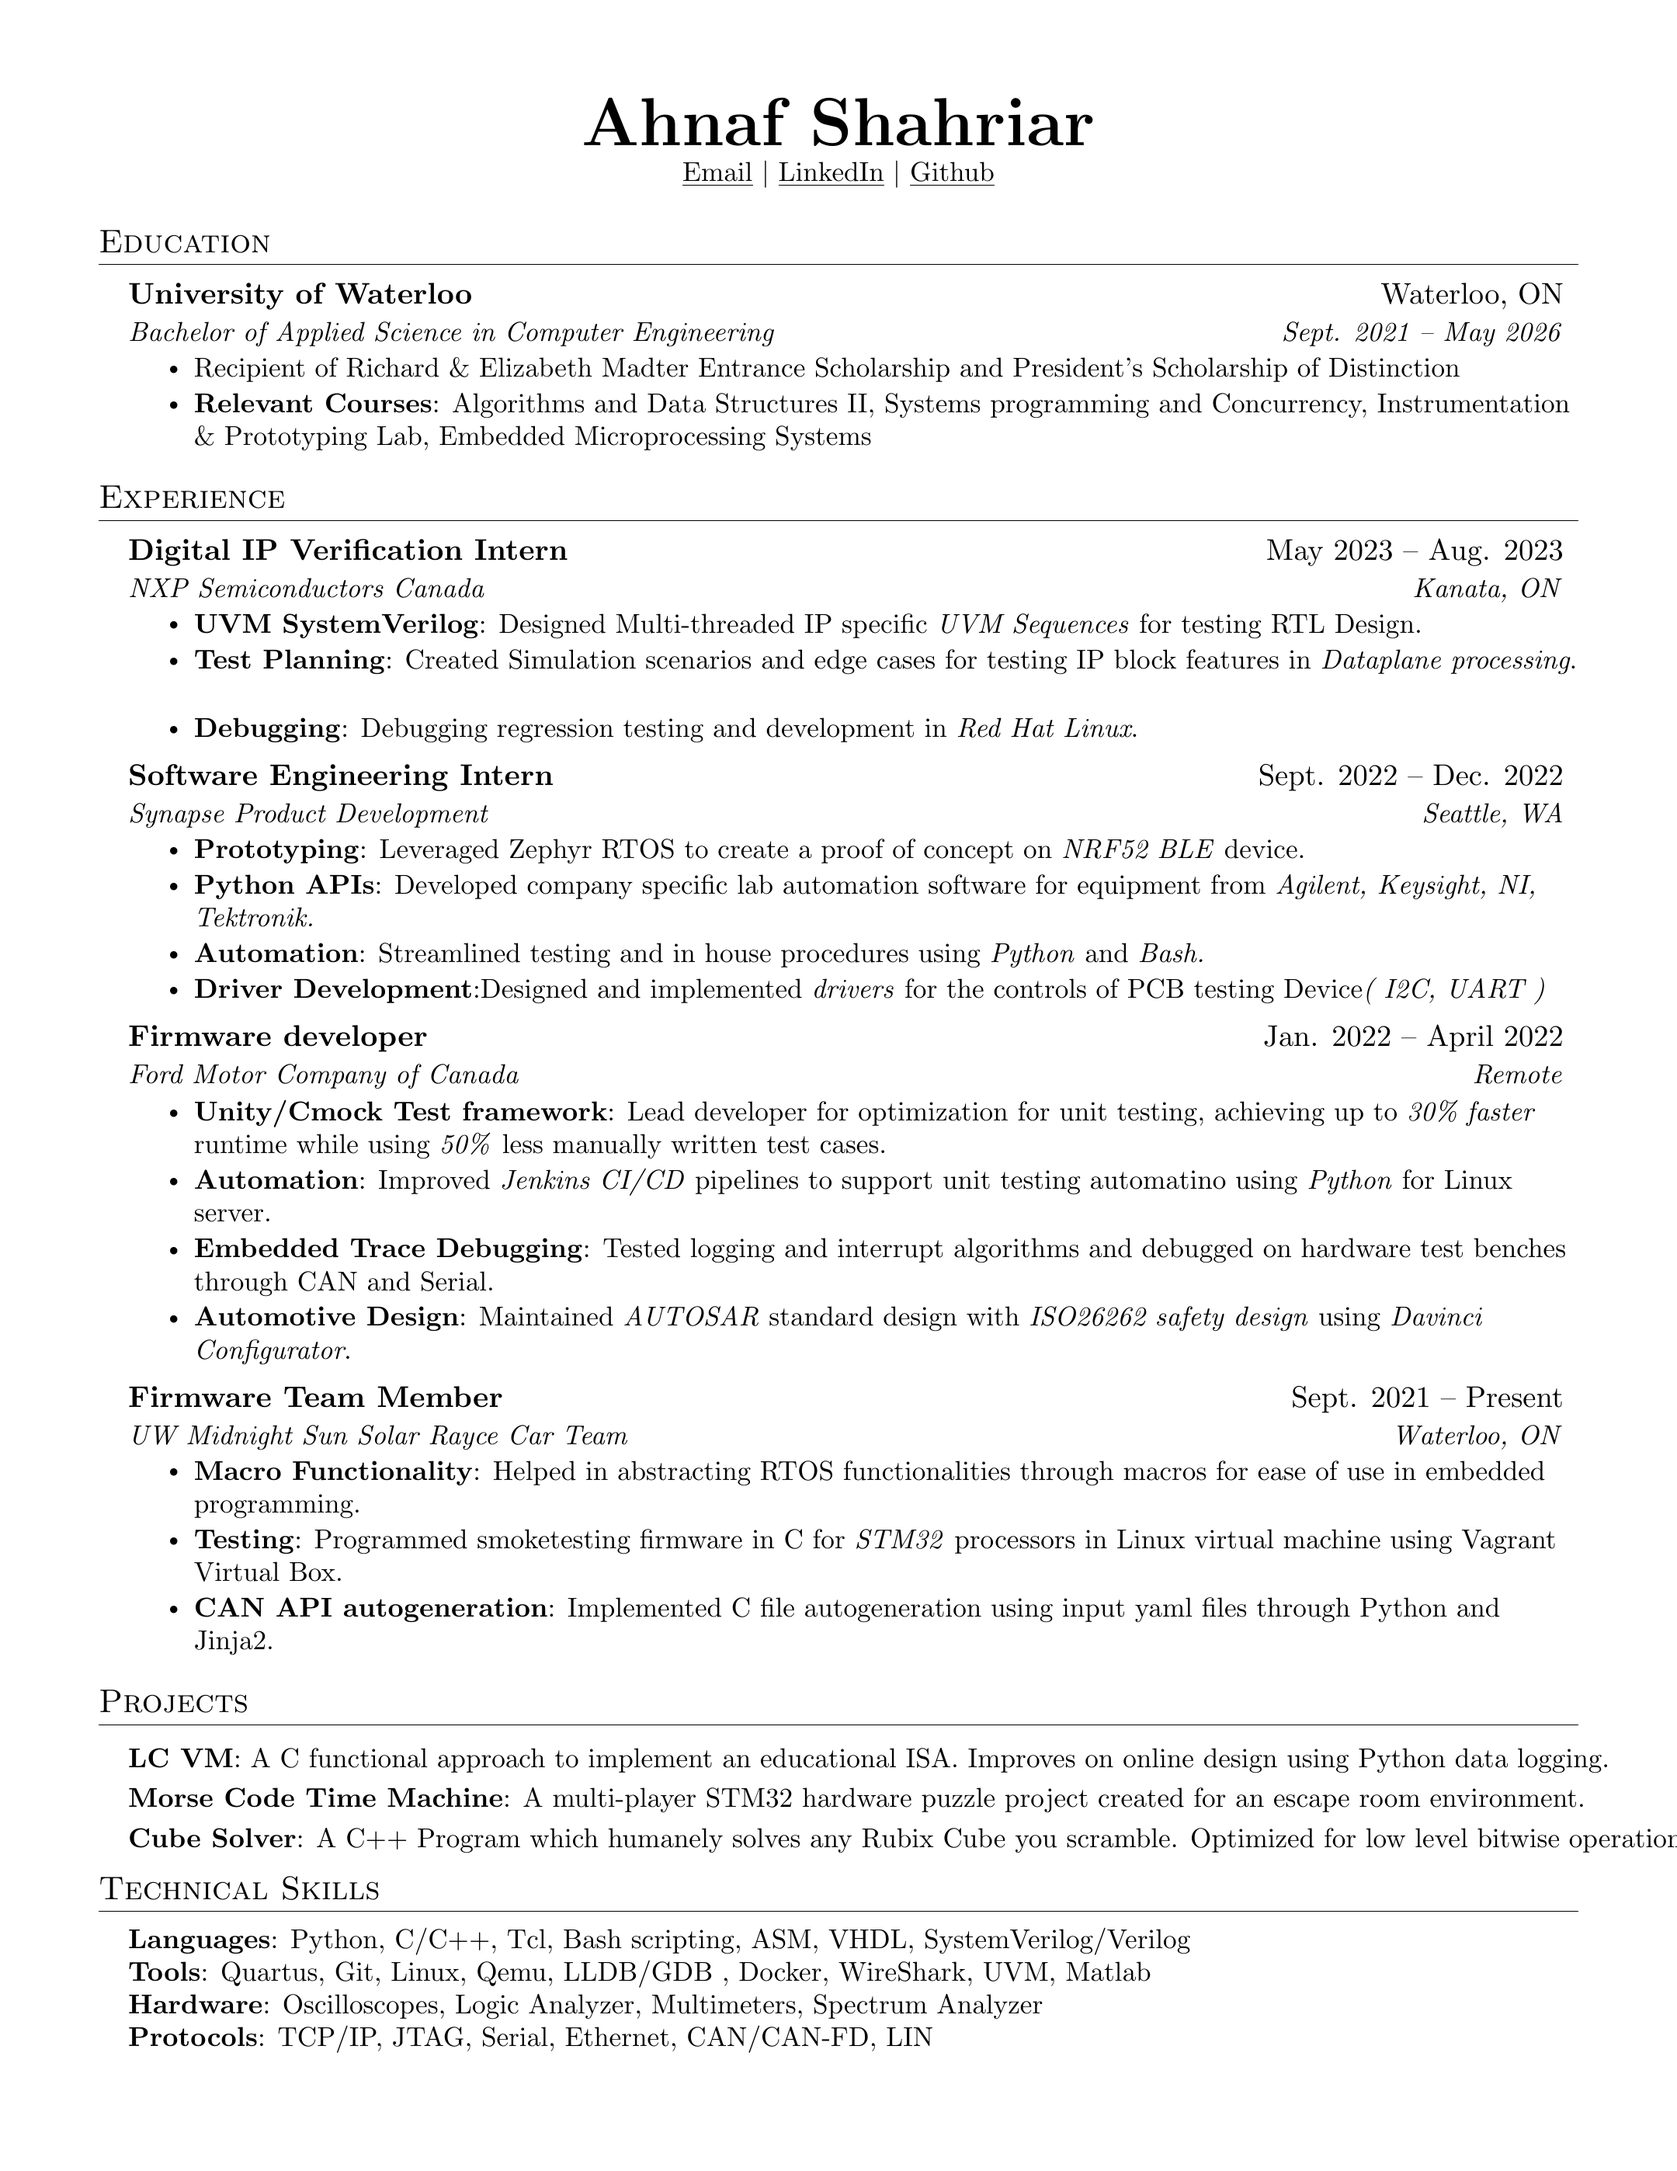
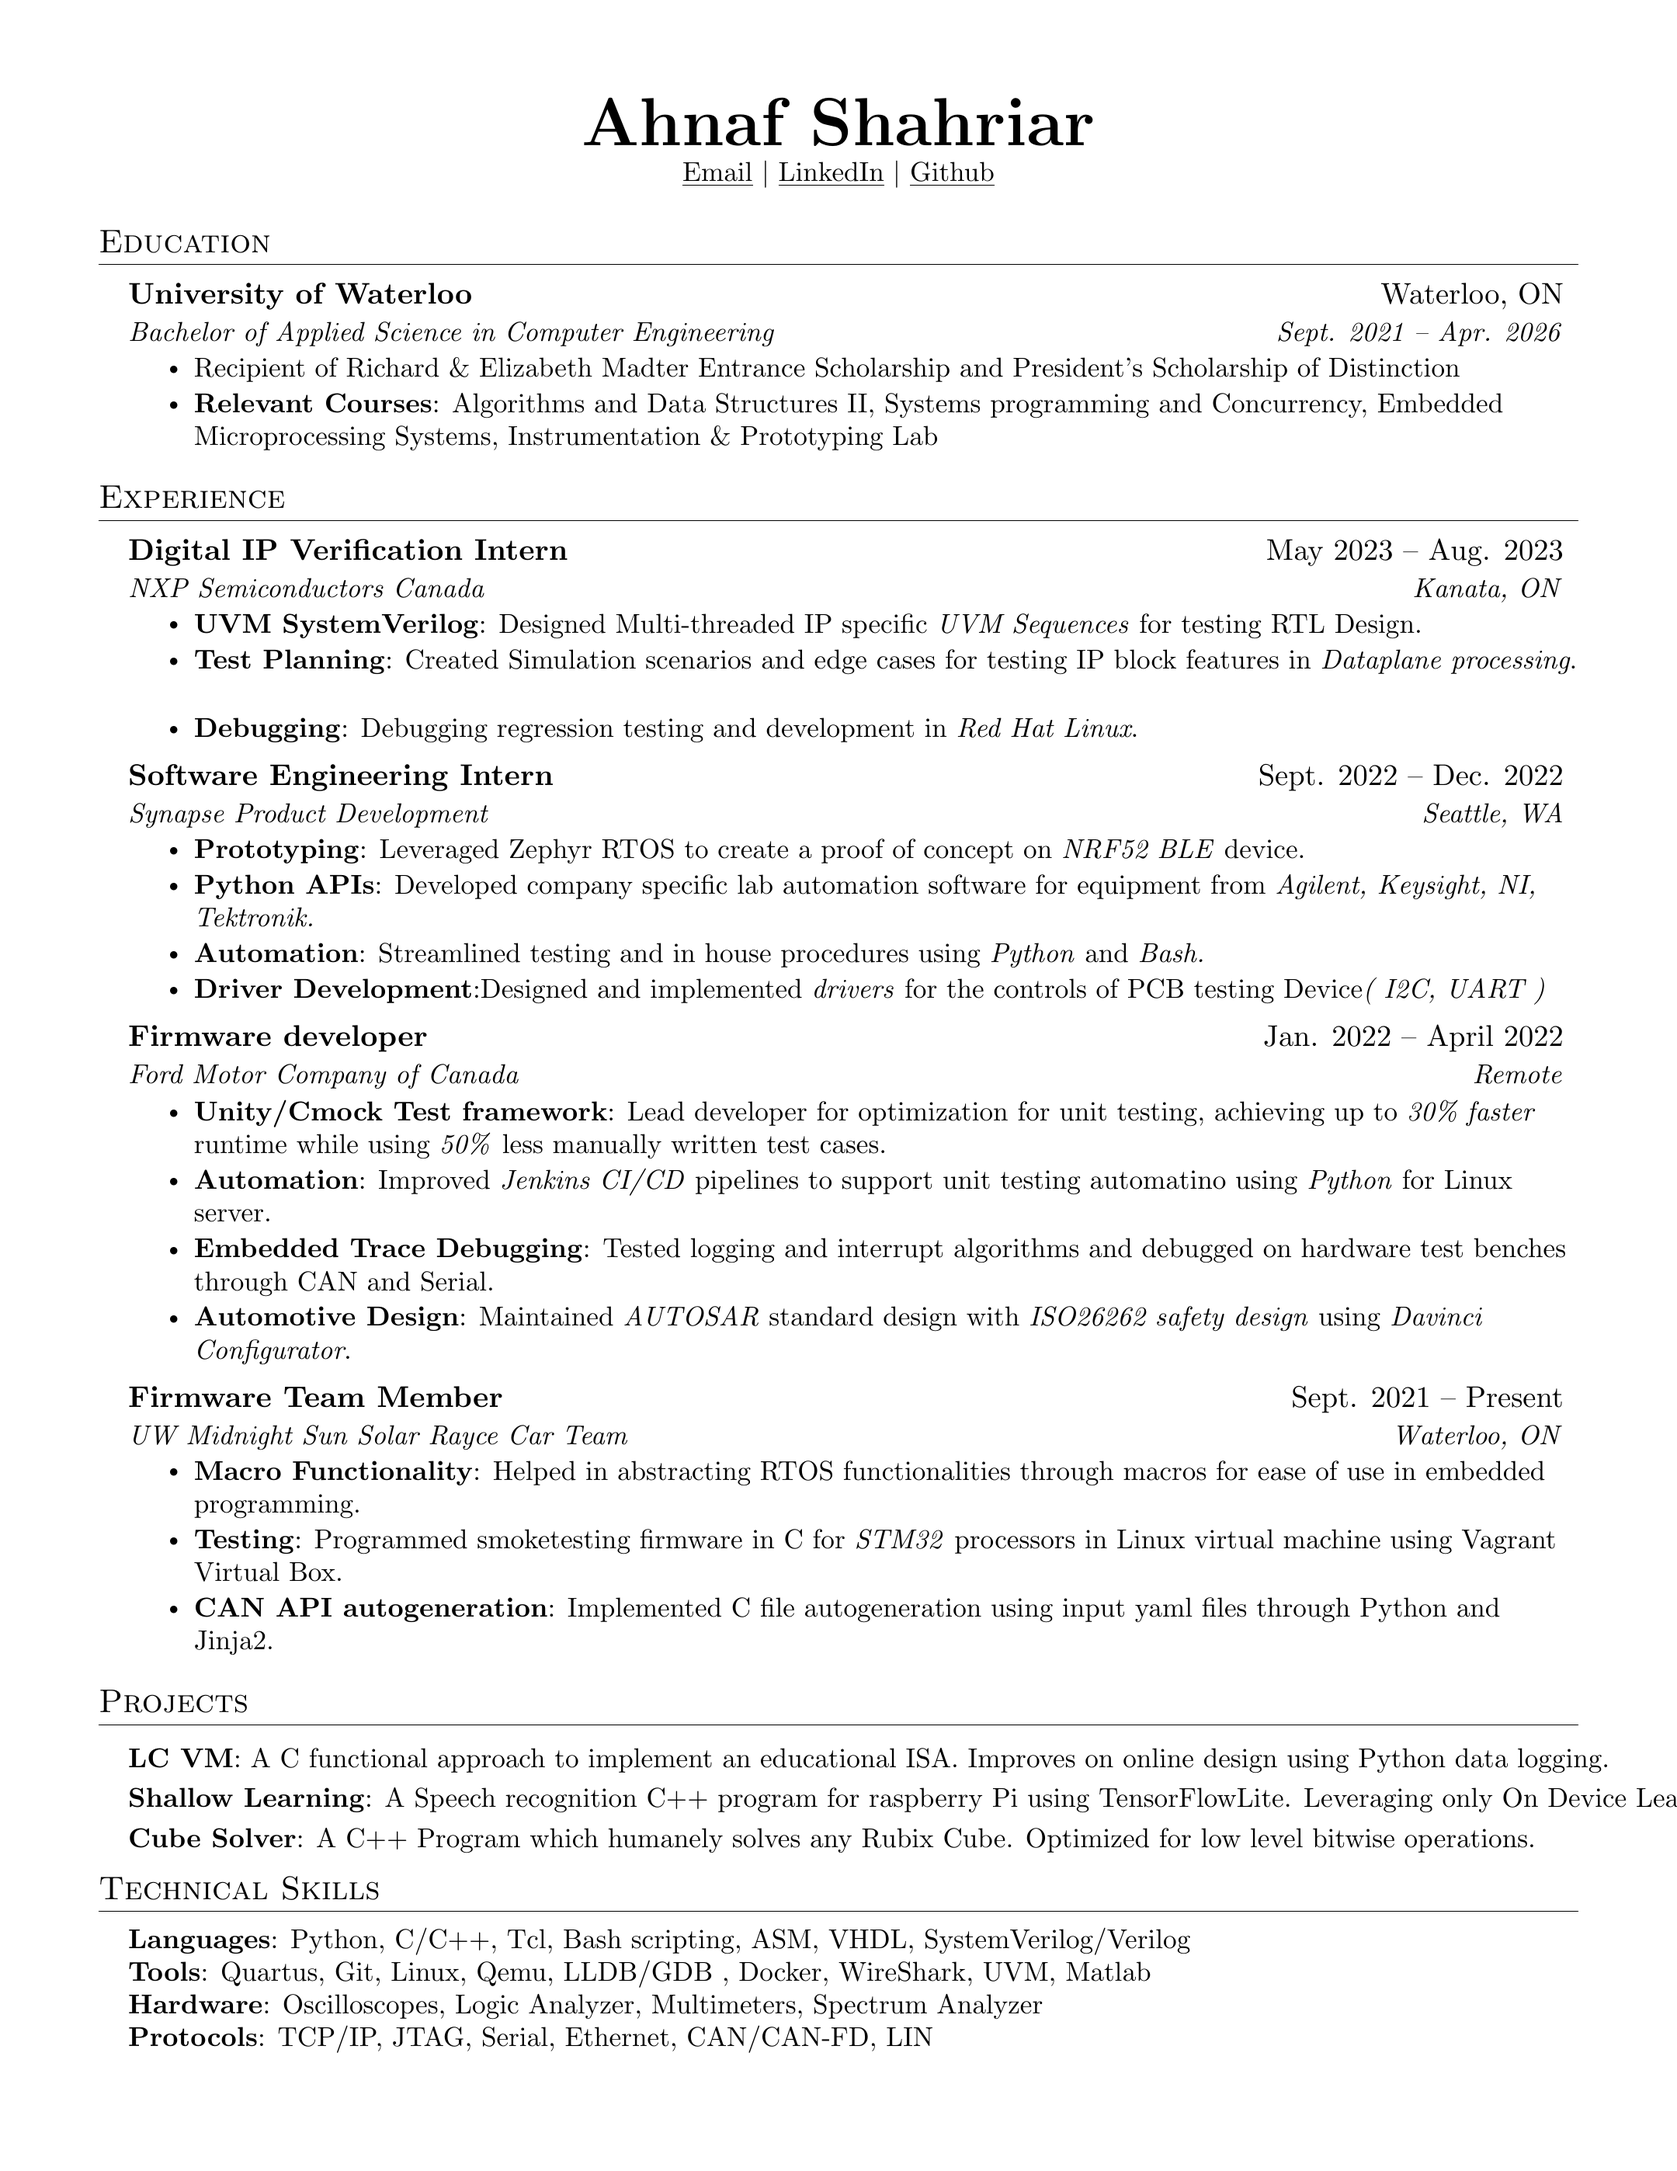
weird error with capitalization fixed

diff --git a/Ahnaf_Shahriar_resume.tex b/Ahnaf_Shahriar_resume.tex
@@ -124,10 +124,10 @@
   \resumeSubHeadingListStart
     \resumeSubheading
       {University of Waterloo}{Waterloo, ON}
-      {Bachelor of Applied Science in Computer Engineering}{Sept. 2021 -- May 2026}
+      {Bachelor of Applied Science in Computer Engineering}{Sept. 2021 -- Apr. 2026}
     \resumeItemListStart
       \resumeItem{Recipient of Richard \& Elizabeth Madter Entrance Scholarship and President’s Scholarship of Distinction }
-      \resumeItem{\textbf{Relevant Courses}: Algorithms and Data Structures II, Systems programming and Concurrency, Instrumentation \& Prototyping Lab, Embedded Microprocessing Systems}
+      \resumeItem{\textbf{Relevant Courses}: Algorithms and Data Structures II, Systems programming and Concurrency,  Embedded Microprocessing Systems, Instrumentation \& Prototyping Lab}
     \resumeItemListEnd
   \resumeSubHeadingListEnd
 
@@ -215,7 +215,7 @@
       %     \resumeItem {Enhanced online solution by effectively \textbf{modeling finite machine states} to increase Virtual CPU operation speed up to \textbf{50\%}}
       % \resumeItemListEnd
       \resumeProjectHeading
-        {\textbf{Shallow Learning}: A TinyML speech recognition C++ program for raspberry Pi created using TensorFlowLite. Leveraging only On Device Learning. }
+        {\textbf{Shallow Learning}: A Speech recognition C++ program for raspberry Pi using TensorFlowLite. Leveraging only On Device Learning. }
       % \resumeProjectHeading
       %   {\textbf{Morse Code Time Machine} $|$ \emph{C, STM32}}{} 
       %   \resumeItemListStart
@@ -224,7 +224,7 @@
       %   \resumeItemListEnd
 
       \resumeProjectHeading
-      {\textbf{Cube Solver}: A C++ Program which humanely solves any Rubix Cube you scramble. Optimized for low level bitwise operations.}{}
+      {\textbf{Cube Solver}: A C++ Program which humanely solves any Rubix Cube. Optimized for low level bitwise operations.}{}
    
     \resumeSubHeadingListEnd
 %
